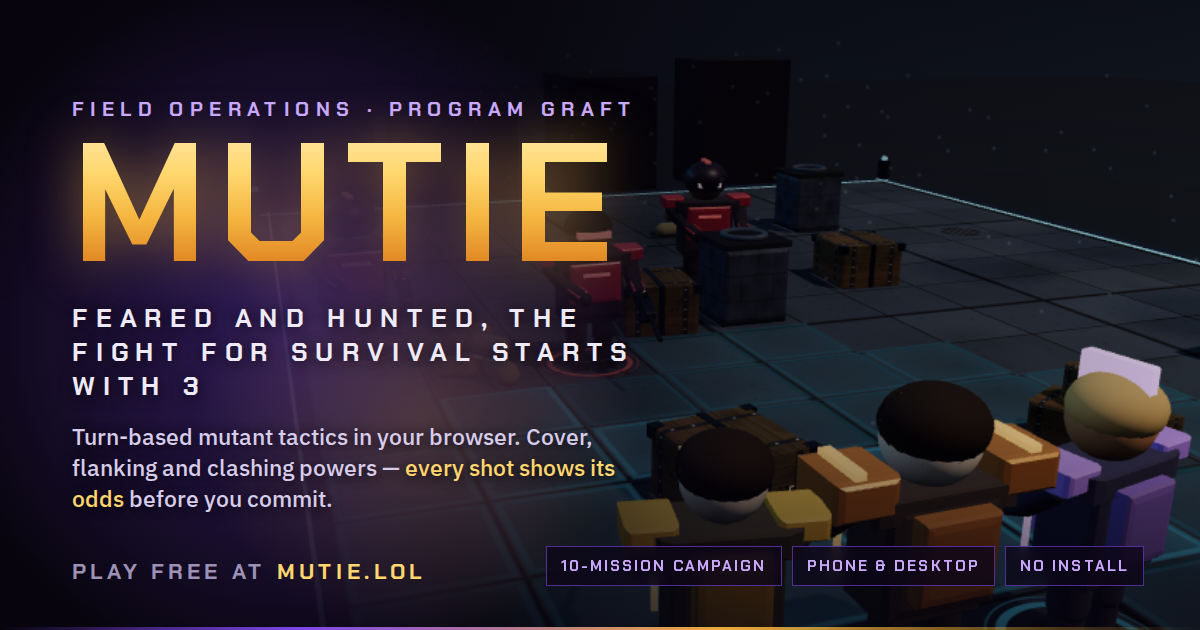
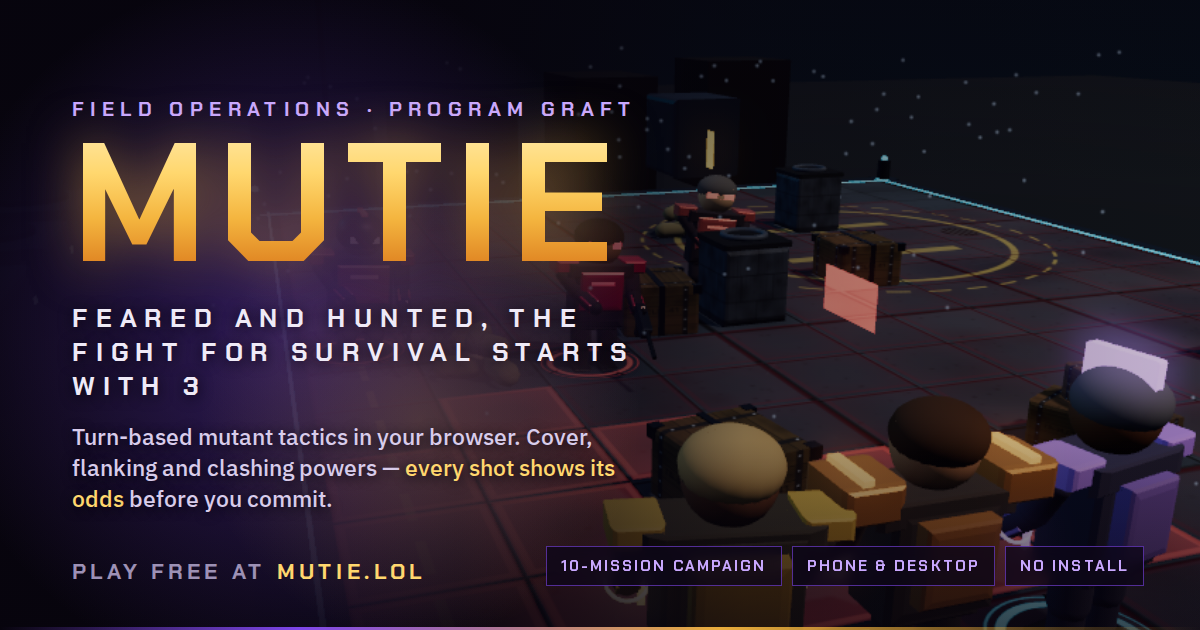
Signature basic attacks: no mutant fires a gun
Each family's basic attack is now a power with its own projectile,
sound and animation — Pulse Shot, Shockwave, Rift Shard, Suture Dart —
with a flavour name and colour per mutant. Figures trade the rifle for
emitter rings and palm cores; cast and slam poses replace the rifle
raise. Every "Fire" label, the POV button, hints and touch text use the
attack's name. Coalition units keep their guns. Share card regenerated.

Claude-Session: https://claude.ai/code/session_0139axJRpttUcGwMhriLBh9T

diff --git a/index.html b/index.html
@@ -748,7 +748,7 @@ button,.navbtn,.linkbtn{touch-action:manipulation}
       <div class="sheet-h"><h2>How to play</h2><button class="btn small" data-close="modal-help">Close</button></div>
       <div class="help">
         <p><b>Two actions per unit.</b> Moving costs one. A long move (dim tiles) costs both. Firing, Overwatch, and most powers end the unit's turn. Powers recharge on a cooldown — except <b>Pulse Blast</b>, which is three charges per mission: throw one at a lone trooper and that is a grenade you will not have later.</p>
-        <p><b>Selecting a mutant drops the camera behind them.</b> Targets line up in a strip sorted by hit chance — shootable ones first, the rest greyed with the reason. Swipe, use ‹ ›, or ← → to cycle; the big button fires at the current target (or uses a targeted power on them — Mend, Ward and Stim swap the strip to your allies). <b>Move</b>, Blast, Blink and the like pull back to the map so you can pick a tile, then the camera returns. <kbd>V</kbd> or the Map/POV button switches views any time; the map still works exactly as before.</p>
+        <p><b>Selecting a mutant drops the camera behind them.</b> Targets line up in a strip sorted by hit chance — shootable ones first, the rest greyed with the reason. Swipe, use ‹ ›, or ← → to cycle; the big button throws the mutant's own attack at the current target — a Pulse Shot, a Shockwave, a Rift Shard, a Suture Dart; nobody here carries a gun (or uses a targeted power on them — Mend, Ward and Stim swap the strip to your allies). <b>Move</b>, Blast, Blink and the like pull back to the map so you can pick a tile, then the camera returns. <kbd>V</kbd> or the Map/POV button switches views any time; the map still works exactly as before.</p>
         <p><b>On a touchscreen,</b> the first tap previews — the path, who it wakes, the hit chance — and a second tap on the same spot confirms. Tapping one of your own mutants selects them straight away.</p>
         <p><b>Read the number.</b> Hover a hostile to see your hit chance. Half cover −20, full cover −40. Get around their cover and you're <b>flanking</b>: cover ignored, +1 damage, a chance to crit.</p>
         <p><b>Cover has a side.</b> Shield icons show which direction a unit is protected from. Bright shields protect against the unit you've selected.</p>
@@ -762,7 +762,7 @@ button,.navbtn,.linkbtn{touch-action:manipulation}
         <p><b>Side ops</b> are generated strikes: a random sector, objective and Coalition element scaled to where you are in the campaign. They use your roster like any mission — XP, wounds and deaths all count — and a win pushes the Graft Index back by two. Every sector has a code you can replay.</p>
         <p><b>Twelve mutants, four families.</b> You start with three — Vex, Halden and Nix. Another named mutant joins after each campaign mission you clear, until all twelve are on the roster. Every Blaster, Bruiser, Phaser and Mender shares its family's role, but each mutant has a different power and passive. Two Blasters are not the same Blaster. Take three per mission.</p>
         <p><b>Voice</b> uses your browser's built-in speech voices; the cast sounds different on every machine. Every spoken line also appears in Comms. Toggle it in the top bar.</p>
-        <p class="keys"><kbd>1</kbd> Move · <kbd>2</kbd> Fire · <kbd>3</kbd> Power · <kbd>4</kbd> Overwatch · <kbd>5</kbd> Hunker · <kbd>Tab</kbd> next unit · <kbd>Enter</kbd> end turn · <kbd>Esc</kbd> / right-click cancel</p>
+        <p class="keys"><kbd>1</kbd> Move · <kbd>2</kbd> Attack · <kbd>3</kbd> Power · <kbd>4</kbd> Overwatch · <kbd>5</kbd> Hunker · <kbd>Tab</kbd> next unit · <kbd>Enter</kbd> end turn · <kbd>Esc</kbd> / right-click cancel</p>
       </div>
     </div>
   </div>
@@ -808,11 +808,11 @@ const MUTANTS = [
   { id:'blaster', arch:'blaster', name:'Vex',  color:'#F2B33D', glyph:'V', tagline:'Ranged artillery', hp:10, aim:70, move:4, dmg:[2,3], range:7, look:'goggles',
     passive:'Overcharge — a Pulse Blast that kills refunds its charge.', passiveKey:'overcharge',
     ability:{key:'blast', name:'Pulse Blast', cd:3, range:5, ends:true, desc:'3 dmg to every unit in a 3×3 area within 5 tiles. Always hits; ignores cover and armor; wrecks crates and drums. Three charges per mission. Ends turn.'} },
-  { id:'ember', arch:'blaster', name:'Ember', color:'#FF7A45', glyph:'E', tagline:'Kinetic sharpshooter', hp:9, aim:72, move:4, dmg:[2,4], range:7, look:'scarf',
+  { id:'ember', arch:'blaster', name:'Ember', color:'#FF7A45', glyph:'E', tagline:'Kinetic striker', hp:9, aim:72, move:4, dmg:[2,4], range:7, look:'scarf',
     passive:'Hotshot — flanking shots do +1 extra damage.', passiveKey:'hotshot',
-    ability:{key:'concuss', name:'Concussion Round', cd:3, range:6, ends:true, desc:'4 dmg to one hostile in view within 6. Ignores cover, knocks them back a tile and breaks their overwatch. Ends turn.'} },
+    ability:{key:'concuss', name:'Concussive Burst', cd:3, range:6, ends:true, desc:'4 dmg to one hostile in view within 6. Ignores cover, knocks them back a tile and breaks their overwatch. Ends turn.'} },
   { id:'rook', arch:'blaster', name:'Rook',  color:'#D9A441', glyph:'R', tagline:'Suppression specialist', hp:11, aim:66, move:4, dmg:[2,3], range:7, look:'vest',
-    passive:'Steady — reaction fire from Rook has no aim penalty.', passiveKey:'steady',
+    passive:'Steady — reaction shots from Rook have no aim penalty.', passiveKey:'steady',
     ability:{key:'suppress', name:'Suppressing Arc', cd:3, range:4, ends:false, desc:'Every hostile in view within 4 is suppressed until your next turn: −25 aim and no reaction fire. Costs 1 action.'} },
   { id:'bruiser', arch:'bruiser', name:'Halden', color:'#E08A3C', glyph:'H', tagline:'Frontline wall', hp:16, aim:60, move:4, dmg:[2,3], range:5, armor:1, look:'pauldrons',
     passive:'Dense — Armor 1: every hit on Halden does 1 less. Smash ignores armor.', passiveKey:'dense',
@@ -842,6 +842,16 @@ const MUTANTS = [
     passive:'Field medic — allies beside Tobias heal 1 at the start of each turn.', passiveKey:'fieldmedic',
     ability:{key:'stim', name:'Stim', cd:3, range:4, ends:false, desc:'An ally within 4 gets an action back (max 2) and their power cooldown drops by 1; clears drain. Costs 1 action.'} },
 ];
+/* Basic attacks are powers too: no mutant fires a gun. One signature per family (projectile kind, sound, animation), a flavour
+   name and colour per mutant. `def.attack` is merged in buildDef; the Coalition keeps rifles. */
+const ATTACKS={
+  blaster:{name:'Pulse Shot',  kind:'bolt',   sfx:'pulse',  anim:'cast1', color:'#FFD27A', desc:'a bolt of charged force from the palm'},
+  bruiser:{name:'Shockwave',   kind:'wave',   sfx:'slam',   anim:'slam',  color:'#FFA35C', desc:'a fist to the floor — the ground carries the hit'},
+  phaser: {name:'Rift Shard',  kind:'shard',  sfx:'shard',  anim:'cast1', color:'#C9A8FF', desc:'a sliver of folded space, thrown'},
+  mender: {name:'Suture Dart', kind:'needle', sfx:'needle', anim:'cast1', color:'#7BE0C8', desc:'a biotic needle meant for the wrong body'},
+};
+const ATTACK_NAMES={blaster:['Pulse Shot','#FFD27A'],ember:['Heat Lance','#FF8A5C'],rook:['Static Bolt','#E3E36B'],bruiser:['Shockwave','#FFA35C'],mara:['Shield Slam','#E0A070'],grit:['Quake Fist','#D97A4A'],phaser:['Rift Shard','#C9A8FF'],sable:['Void Spike','#A88CFF'],echo:['Echo Pulse','#8FE0FF'],mender:['Suture Dart','#7BE0C8'],iris:['Ward Sting','#9BEFE0'],tobias:['Adrenal Dart','#B4F0A0']};
+const attackFor=(kit)=>{ const m=MUT[kit]||MUT.blaster; const base=ATTACKS[m.arch]||ATTACKS.blaster; const nm=ATTACK_NAMES[kit]; return Object.assign({},base,nm?{name:nm[0],color:nm[1]}:{}); };
 const MUT=Object.fromEntries(MUTANTS.map(m=>[m.id,m]));
 /* The three the player starts with; the rest join over the campaign (see RECRUIT_ORDER). */
 const STARTING_IDS=['blaster','bruiser','phaser'];
@@ -1229,12 +1239,17 @@ const Audio = (()=>{
     blink:(x)=>{ const p=pan(x); tone(300,1800,0.18,'sine',0.14,p); tone(1800,300,0.18,'sine',0.1,p); noise(0.12,0.05,3000,p); },
     huskBlink:(x)=>{ const p=pan(x); tone(1200,2400,0.12,'sine',0.08,p); tone(2400,600,0.2,'triangle',0.08,p,0.05); noise(0.15,0.06,4000,p); },
     // ---- weapons ----
-    shoot:(x,kind='rifle')=>{ const p=pan(x);
+    shoot:(x,kind='rifle')=>{ const p=pan(x); if(kind==='pulse'||kind==='slam'||kind==='shard'||kind==='needle'){ Audio[kind](x); return; }
       if(kind==='marksman'){ noise(0.06,0.5,2500,p); tone(900,120,0.18,'square',0.18,p); tone(70,40,0.25,'sine',0.25,p); }
       else if(kind==='heavy'){ noise(0.16,0.45,600,p,0,4000); tone(180,45,0.22,'square',0.25,p); }
       else if(kind==='pistol'){ noise(0.05,0.3,1800,p); tone(600,150,0.08,'square',0.1,p); }
       else { noise(0.12,0.35,1200,p); tone(420,90,0.14,'square',0.12,p); } },
     reaction:(x)=>{ tone(1400,1400,0.05,'square',0.07,pan(x)); tone(1400,1400,0.05,'square',0.07,pan(x),0.07); },
+    // mutant basic attacks — no gunfire
+    pulse:(x)=>{ const p=pan(x); tone(320,1100,0.16,'sine',0.16,p,0,0.02); tone(1100,600,0.12,'triangle',0.08,p,0.08); noise(0.08,0.08,1800,p,0.02,6000); },
+    slam:(x)=>{ const p=pan(x); tone(110,32,0.32,'sine',0.42,p); noise(0.22,0.25,90,p,0,700); tone(60,45,0.5,'triangle',0.18,p,0.05); },
+    shard:(x)=>{ const p=pan(x); tone(2200,3600,0.07,'sine',0.09,p); tone(1800,2600,0.09,'triangle',0.07,p,0.03); tone(3400,900,0.14,'sine',0.06,p,0.06); noise(0.05,0.05,5000,p,0,12000); },
+    needle:(x)=>{ const p=pan(x); tone(2600,1500,0.06,'sine',0.08,p); noise(0.04,0.06,3000,p,0,9000); tone(900,700,0.05,'triangle',0.05,p,0.05); },
     overwatch:(x)=>{ const p=pan(x); noise(0.04,0.15,2000,p); tone(300,240,0.06,'square',0.08,p,0.05); noise(0.03,0.12,2500,p,0.11); },
     hit:(x)=>{ const p=pan(x); tone(160,40,0.18,'triangle',0.35,p); noise(0.08,0.2,300,p); },
     crit:(x)=>{ const p=pan(x); tone(220,30,0.28,'sawtooth',0.4,p); noise(0.14,0.35,200,p); tone(1200,300,0.1,'square',0.1,p,0.02); },
@@ -1380,7 +1395,7 @@ function checkPerkOffer(){ const offer=CAMP.perkOffer; if(!offer||!offer.length)
   $('modal-perk').hidden=false; return true; }
 const KIT_UPGRADES={
   blaster:[{id:'wide',name:'Wide Pulse',desc:'Pulse Blast covers a 5×5 area.',flags:{blastRadius:2}},{id:'focus',name:'Focused Pulse',desc:'Pulse Blast deals 4 damage.',flags:{blastDmg:4}}],
-  ember:[{id:'breaker',name:'Breaker',desc:'Concussion Round throws 2 tiles and stuns — the target loses its next turn.',flags:{concussKnock:2,concussStun:1}},{id:'follow',name:'Follow-through',desc:'If Concussion Round kills, Ember keeps one action.',flags:{concussMomentum:1}}],
+  ember:[{id:'breaker',name:'Breaker',desc:'Concussive Burst throws 2 tiles and stuns — the target loses its next turn.',flags:{concussKnock:2,concussStun:1}},{id:'follow',name:'Follow-through',desc:'If Concussive Burst kills, Ember keeps one action.',flags:{concussMomentum:1}}],
   rook:[{id:'widearc',name:'Wide Arc',desc:'Suppressing Arc reaches 6 tiles.',flags:{suppressRange:6}},{id:'pinning',name:'Pinning Fire',desc:'Suppressed hostiles cannot move this turn.',flags:{suppressRoot:1}}],
   bruiser:[{id:'quake',name:'Quake',desc:'Smash also hits every other adjacent hostile for 3.',flags:{smashAoE:3}},{id:'exec',name:'Executioner',desc:'Smash deals 7 damage.',flags:{smashDmg:7}}],
   mara:[{id:'bastion',name:'Bastion',desc:'While braced, Mara blocks line of sight like a wall.',flags:{braceLOS:1}},{id:'rebound',name:'Rebound',desc:'While braced, anyone who hits Mara takes 2 damage.',flags:{braceThorns:2}}],
@@ -1446,7 +1461,7 @@ const readyRoster=()=>CAMP.roster.filter(r=>r.alive&&r.wounded<=0);
 const squadNeed=()=>Math.min(3,CAMP.roster.filter(r=>r.alive).length);
 /* Fewer than three fit? Wounded mutants may fill the empty slots (ready ones first) — never a dead end, never a solo op. */
 const deployPool=()=>{ const al=CAMP.roster.filter(r=>r.alive); return readyRoster().length>=3?readyRoster():[...al.filter(r=>r.wounded<=0),...al.filter(r=>r.wounded>0)]; };
-function buildDef(entry){ const kit=MUT[entry.kit]||MUT.blaster; const d=Object.assign({},ARCH[kit.arch],kit,{id:kit.id}); d.ability=Object.assign({},kit.ability);
+function buildDef(entry){ const kit=MUT[entry.kit]||MUT.blaster; const d=Object.assign({},ARCH[kit.arch],kit,{id:kit.id}); d.ability=Object.assign({},kit.ability); d.attack=attackFor(kit.id);
   const L=entry.level; if(L>=2){ d.hp+=1; d.aim+=5; } if(L>=4){ d.hp+=2; d.aim+=5; }
   d.flags={}; if(entry.upgrade){ const up=findUpgrade(entry.kit,entry.upgrade); if(up){ d.upgradeName=up.name; d.upgradeDesc=up.desc; Object.assign(d.flags,up.flags||{}); for(const k in (up.mod||{})){ if(k==='cd') d.ability.cd=Math.max(1,d.ability.cd+up.mod.cd); else if(k==='range') d.ability.range+=up.mod.range; else if(k==='dmg') d.dmg=[d.dmg[0]+1,d.dmg[1]+1]; else d[k]=(d[k]||0)+up.mod[k]; } } }
   d.level=L; d.cid=entry.cid; d.custom=entry.custom; return d; }
@@ -1892,8 +1907,8 @@ function renderSide(){
     if(!u.def.noAttack){ const dn=downedNear(u); if(dn.length&&!u.carrying){ mk('stabilize',`Stabilize ${dn[0].name}`,'Stop the bleeding. They survive the mission, out of the fight. 1 action.',{disabled:!can||dn[0].stabilized,pressed:false}); mk('carry',`Carry ${dn[0].name}`,'Pick them up. −1 move, no overwatch while carrying. 1 action.',{disabled:!can,pressed:false}); }
       if(u.carrying) mk('setdown',`Set down ${u.carrying.name}`,'Put them on an adjacent tile. 1 action.',{disabled:!can,pressed:G.mode==='setdown'}); }
     if(!u.def.noAttack){
-      mk('shoot','Fire',`${u.dmg[0]}–${u.dmg[1]} dmg, range ${u.range}. Ends turn.`,{disabled:!can,pressed:G.mode==='shoot',cost:2,cls:'fire'});
-      mk('overwatch','Overwatch',`Hold fire. Shoot the first hostile that moves in view (aim −15). Ends turn.`,{disabled:!can||u.ow||!!u.carrying,pressed:u.ow,cost:2});
+      const atkName=(u.def.attack&&u.def.attack.name)||'Fire'; mk('shoot',atkName,`${u.dmg[0]}–${u.dmg[1]} dmg, range ${u.range}${u.def.attack?' — '+u.def.attack.desc:''}. Ends turn.`,{disabled:!can,pressed:G.mode==='shoot',cost:2,cls:'fire'});
+      mk('overwatch','Overwatch',`Hold your shot. Hit the first hostile that moves in view (aim −15). Ends turn.`,{disabled:!can||u.ow||!!u.carrying,pressed:u.ow,cost:2});
       mk('hunker','Hunker',`Get small. −20 to be hit and no crits against you until your next turn. Ends turn.`,{disabled:!can||u.hunker,pressed:u.hunker,cost:2});
       const ab=u.def.ability; const isJam=jammed(u);
       for(const pid of [...(G.perks||[])]){ const P=PERKS[pid]; if(!P||P.kind!=='use') continue; const used=G.perkUsed.has(pid); mk('perk:'+pid,P.name,P.short,{disabled:!can||used||(P.cost&&u.ap<P.cost),pressed:G.mode==='perk:'+pid,cost:P.cost||0,cls:'perk'+(used?' used':''),tag:used?'USED':(P.cost?'':'FREE')}); }
@@ -1905,8 +1920,8 @@ function renderSide(){
   $('btn-end').disabled=G.phase!=='player'||G.busy; $('btn-end').classList.toggle('pulse',G.phase==='player'&&!G.busy&&alive('player').some(u=>u.side==='player')&&alive('player').every(u=>u.ap<=0||u.ow));
 }
 function armHint(u,p,target,hostile){ const again='<span class="tap">Tap again to confirm.</span>';
-  if(G.mode==='move'||G.mode==='shoot'){ if(hostile){ if(!inRange(u,target)) return `<b>No shot</b> — ${target.name} is out of range or line of sight.`; const h=hitChance(u,target); return `<b>Fire</b> at ${target.name} — <b>${h.chance}%</b>${h.flanked?' (flanked)':h.cover===2?' vs full cover':h.cover===1?' vs half cover':''}. ${again}`; }
-    if(target) return tooltip(target); if(G.mode==='shoot') return `<b>Fire</b> — tap a hostile.`;
+  if(G.mode==='move'||G.mode==='shoot'){ if(hostile){ if(!inRange(u,target)) return `<b>No shot</b> — ${target.name} is out of range or line of sight.`; const h=hitChance(u,target); return `<b>${(u.def.attack&&u.def.attack.name)||'Fire'}</b> at ${target.name} — <b>${h.chance}%</b>${h.flanked?' (flanked)':h.cover===2?' vs full cover':h.cover===1?' vs half cover':''}. ${again}`; }
+    if(target) return tooltip(target); if(G.mode==='shoot') return `<b>${(u.def.attack&&u.def.attack.name)||'Fire'}</b> — tap a hostile.`;
     const r=reachable(u,u.move*u.ap); const n=r.get(key(p.x,p.y)); if(!n){ G.armed=null; return `<b>Can't reach</b> that tile.`; }
     return `${moveHint(u,p,n,r)} ${again}`; }
   const ab=u.def.ability; const name=G.mode==='setdown'?'Set down':G.mode.startsWith('perk:')?(PERKS[G.mode.slice(5)]||{}).name||'Perk':(ab&&ab.key===G.mode?ab.name:G.mode);
@@ -1961,7 +1976,7 @@ function renderPov(){
   if(!t){ go.textContent='No target'; go.disabled=true; }
   else if(pv.kind==='ally'){ go.innerHTML=`${ab.name} → ${t.name}`; go.disabled=!can||!it.ok||u.cd>0||jammed(u); }
   else if(TARGETED[G.mode]==='enemy'){ go.innerHTML=`${ab.name} → ${t.side==='obj'?t.name:t.def.name}`; go.disabled=!can||!it.ok||u.cd>0||jammed(u); }
-  else { go.innerHTML=it.ok?`Fire at ${t.side==='obj'?t.name:t.def.name} · <b>${it.h.chance}%</b>`:`No shot — ${t.side==='obj'?t.name:t.def.name}`; go.disabled=!can||!it.ok; }
+  else { const an=(u.def.attack&&u.def.attack.name)||'Fire'; go.innerHTML=it.ok?`${an} → ${t.side==='obj'?t.name:t.def.name} · <b>${it.h.chance}%</b>`:`No shot — ${t.side==='obj'?t.name:t.def.name}`; go.disabled=!can||!it.ok; }
   $('pov-prev').disabled=$('pov-next').disabled=pv.list.length<2||G.busy;
 }
 $('pov-prev').onclick=()=>povCycle(-1); $('pov-next').onclick=()=>povCycle(1); $('pov-map').onclick=toggleView; $('btn-pov').onclick=toggleView; $('pov-go').onclick=povGo;
@@ -1996,12 +2011,12 @@ function setHint(t){
     if(TARGETED[m]==='enemy'){ const sp=(m==='phasestrike'&&it.ok)?landingSpot(u,t):null; h.innerHTML=`<b>${u.def.ability.name}</b> → <b>${nm}</b>${it.ok?'':' — out of reach'}.${sp?' On landing: '+exposureHtml(u,sp):''}${nav}`; return; }
     if(it.ok){ const si=t.side==='obj'?null:shotInfo(u,t); const kt=si?killTag(si):''; h.innerHTML=`<b>${nm}</b> — <b>${it.h.chance}%</b>${it.h.flanked?' flanked':it.h.cover===2?' vs full cover':it.h.cover===1?' vs half cover':''}, ${si?(si.lo===si.hi?si.lo:si.lo+'–'+si.hi):u.dmg[0]+'–'+u.dmg[1]} dmg${si&&si.armor?' after '+si.armor+' armor':''}${kt?` — <b>${kt.toLowerCase()}</b>`:''}.${it.h.parts&&it.h.parts.length>1?` <span class="why">${fmtParts(it.h)}</span>`:''}${t.side==='enemy'&&!t.alert?' Firing wakes their pod.':''}${nav}`; } else h.innerHTML=`<b>${nm}</b> — no shot from here.${nav} <b>Move</b> to reposition.`; return; }
   if(m==='move'){ const p=G.hover; if(p&&!unitAt(p.x,p.y)){ const r=reachable(u,u.move*u.ap); const n=r.get(key(p.x,p.y)); if(n){ h.innerHTML=moveHint(u,p,n,r); return; } } h.innerHTML=G.touch?`<b>Move</b> — tap a highlighted tile to preview it (who wakes, who could hit you there), tap again to go.`:`<b>Move</b> — click a highlighted tile. Bright = 1 action, dim = dash (both actions). Hover a tile to see who could hit you there.`; }
-  else if(m==='shoot') h.innerHTML=`<b>Fire</b> — click a hostile or a relay. Hover to see hit chance.`;
+  else if(m==='shoot') h.innerHTML=`<b>${(u.def.attack&&u.def.attack.name)||'Fire'}</b> — click a hostile or a relay. Hover to see hit chance.`;
   else if(m==='blast') h.innerHTML=`<b>Pulse Blast</b> — click a target tile within 5. Hits everything in the 3×3, allies included. Wrecks crates.`;
   else if(m==='smash') h.innerHTML=`<b>Seismic Smash</b> — click an adjacent hostile.`;
   else if(m==='blink'){ const p=G.hover; if(blinkOk(u,p)) h.innerHTML=`<b>Blink</b> here — 1 action, you can still shoot. ${exposureHtml(u,p)}`; else h.innerHTML=`<b>Blink</b> — click any open tile within 6. No line of sight needed. Hover a tile to see who could hit you there.`; }
   else if(m==='mend') h.innerHTML=`<b>Mend</b> — click a wounded or marked ally within 5.`;
-  else if(m==='concuss') h.innerHTML=`<b>Concussion Round</b> — click a hostile in view within 6. Knocks them back and breaks overwatch.`;
+  else if(m==='concuss') h.innerHTML=`<b>Concussive Burst</b> — click a hostile in view within 6. Knocks them back and breaks overwatch.`;
   else if(m==='suppress') h.innerHTML=`<b>Suppressing Arc</b> — fires on every hostile in view within 4. Click anywhere on the map to confirm.`;
   else if(m==='brace') h.innerHTML=`<b>Brace</b> — click anywhere to brace. Allies beside Mara get full cover from her.`;
   else if(m==='rally') h.innerHTML=`<b>Rally</b> — click anywhere. Hostiles in view within 5 will come for Grit; Grit gains a shield.`;
@@ -2025,7 +2040,7 @@ function log(msg,cls){ const l=$('log'); const d=document.createElement('div'); 
 /* ---------- Effects ---------- */
 const now=()=>performance.now();
 function fxText(x,y,text,color,big){ G.fx.push({k:'text',x,y,text,color,big,t0:now(),d:900}); }
-function fxTracer(a,b,color){ G.fx.push({k:'tracer',a:{x:a.x,y:a.y},b:{x:b.x,y:b.y},color,t0:now(),d:220}); }
+function fxTracer(a,b,color,kind='bullet'){ G.fx.push({k:'tracer',a:{x:a.x,y:a.y},b:{x:b.x,y:b.y},color,kind,t0:now(),d:kind==='wave'?300:kind==='needle'?170:220}); }
 function fxFlash(x,y,color,r=0.7){ G.fx.push({k:'flash',x,y,color,r,t0:now(),d:260}); }
 function fxRing(x,y,color,r){ G.fx.push({k:'ring',x,y,color,r,t0:now(),d:450}); }
 function fxDebris(x,y){ for(let i=0;i<8;i++) G.fx.push({k:'debris',x,y,vx:(Math.random()-.5)*3,vy:-Math.random()*3-1,t0:now(),d:600}); }
@@ -2089,12 +2104,12 @@ function dropCarried(c){ const d=c.carrying; if(!d) return; c.carrying=null; c.m
 const anim=(u,k,extra)=>{ if(u) u.anim=Object.assign({k,t0:now()},extra||{}); };
 async function shoot(a,d,opt={}){
   const h=hitChance(a,d,opt); const roll=rnd(1,100); const hit=roll<=h.chance;
-  anim(a,a.melee?'lunge':'fire',{tx:d.x,ty:d.y}); if(a.blinkAim&&!opt.reaction) a.blinkAim=0;
+  const atk=(a.side==='player'&&a.def.attack)||null; anim(a,a.melee?'lunge':(atk?atk.anim:'fire'),{tx:d.x,ty:d.y}); if(a.blinkAim&&!opt.reaction) a.blinkAim=0;
   if(a.side==='enemy'&&G.actcam&&!opt.reaction){ const dd=dist(a,d); G.actcam={x:(a.x+d.x)/2,y:(a.y+d.y)/2,zoom:dd>6?1.12:dd>3?1.24:1.36,pull:0.7}; }
   if(a.side==='player'){ G.stats.shots++; if(hit) G.stats.hits++; }
   const kind=a.def.id==='marksman'?'marksman':(a.def.id==='juggernaut'||a.def.boss||a.def.id==='bulwark')?'heavy':(a.def.id==='spotter'||a.def.id==='jammer'||a.def.id==='siphon')?'pistol':'rifle';
   if(opt.reaction) Audio.reaction(a.x);
-  fxTracer(a,d,a.side==='player'?'#9FE8FF':'#FFB3AE'); if(a.melee) Audio.lunge(a.x); else Audio.shoot(a.x,kind); await wait(200);
+  fxTracer(a,d,atk?atk.color:'#FFB3AE',atk?atk.kind:'bullet'); if(atk&&atk.kind==='wave'){ fxRing(a.x,a.y,atk.color,0.7); shake(3); } if(a.melee) Audio.lunge(a.x); else Audio.shoot(a.x,atk?atk.sfx:kind); await wait(atk&&atk.kind==='wave'?260:200);
   const covTxt=h.flanked?' (flanked)':h.cover===2?' vs full cover':h.cover===1?' vs half cover':''; const mk=h.marked?' [marked]':'';
   if(hit){ let dmg=rnd(a.dmg[0],a.dmg[1]); let crit=false; if(h.flanked){ dmg+=1; if(a.def.passiveKey==='hotshot') dmg+=1; const cc=d.hunker?0:(a.side==='player'?0.25:((G.adapt||[]).includes('frenzy')?0.24:0.12)); if(Math.random()<cc){ crit=true; dmg+=a.side==='player'?2:1; } }
     if(a.side==='player'&&G.boost) dmg+=1; if(opt.ambush){ dmg+=1; fxText(d.x,d.y-1.1,'AMBUSH','#F2B33D'); }
@@ -2505,7 +2520,10 @@ const R3 = (()=>{
       }
       const stripe=new T3.Mesh(geo.rbS,trimM); stripe.scale.set(0.02,0.3,0.015); stripe.position.set(0.19*bulk,0.5,0.125*bulk); body.add(stripe); }
     // weapons
-    if(!d.noAttack&&!d.melee){ const kind=d.id==='marksman'?'marksman':(d.id==='juggernaut'||d.boss)?'heavy':(d.id==='spotter'||d.id==='jammer'||d.id==='siphon'||d.id==='bulwark')?'pistol':'rifle'; const len=kind==='marksman'?0.72:kind==='pistol'?0.24:kind==='heavy'?0.52:0.44; const gun=makeGun(kind,len,isE?'#ff8a70':u.color); gun.position.set(0,-0.15,0.02); gun.quaternion.setFromRotationMatrix(new T3.Matrix4().makeBasis(new T3.Vector3(-1,0,0),new T3.Vector3(0,0,1),new T3.Vector3(0,1,0))); AR.elbow.add(gun); g.userData.gun=gun; g.userData.gunLen=len; g.userData.kind=kind;
+    if(!d.noAttack&&!d.melee&&!isE&&!isCap){ // mutant: no gun — emitter hands (glowing palm cores, forearm rings in the attack colour)
+      const ac=(d.attack&&d.attack.color)||u.color; for(const E of [AL.elbow,AR.elbow]){ const ring=new T3.Mesh(geo.torus,glowM(ac,1.2)); ring.scale.setScalar(0.16); ring.rotation.x=Math.PI/2; ring.position.y=-0.1; E.add(ring); const core=new T3.Mesh(geo.sph,glowM(ac,1.8)); core.scale.setScalar(0.028); core.position.set(0,-0.175,0.02); E.add(core); }
+      const mz=new T3.Sprite(new T3.SpriteMaterial({map:TEX.flash,color:ac,transparent:true,blending:T3.AdditiveBlending,depthWrite:false,toneMapped:false})); mz.scale.setScalar(0.3); mz.position.set(0,-0.18,0.03); mz.visible=false; AR.elbow.add(mz); g.userData.muzzle=mz; g.userData.kind=(d.attack&&d.attack.kind)||'bolt'; }
+    else if(!d.noAttack&&!d.melee){ const kind=d.id==='marksman'?'marksman':(d.id==='juggernaut'||d.boss)?'heavy':(d.id==='spotter'||d.id==='jammer'||d.id==='siphon'||d.id==='bulwark')?'pistol':'rifle'; const len=kind==='marksman'?0.72:kind==='pistol'?0.24:kind==='heavy'?0.52:0.44; const gun=makeGun(kind,len,isE?'#ff8a70':u.color); gun.position.set(0,-0.15,0.02); gun.quaternion.setFromRotationMatrix(new T3.Matrix4().makeBasis(new T3.Vector3(-1,0,0),new T3.Vector3(0,0,1),new T3.Vector3(0,1,0))); AR.elbow.add(gun); g.userData.gun=gun; g.userData.gunLen=len; g.userData.kind=kind;
       const mz=new T3.Sprite(new T3.SpriteMaterial({map:TEX.flash,color:'#FFE9A8',transparent:true,blending:T3.AdditiveBlending,depthWrite:false,toneMapped:false})); mz.scale.setScalar(0.22); mz.position.set(0,0.012,gun.userData.muzzleZ); mz.visible=false; gun.add(mz); g.userData.muzzle=mz; }
     else if(d.melee&&d.id==='sprinter'){ for(const E of [AL.elbow,AR.elbow]){ const blade=new T3.Mesh(geo.rbS,metalM('#b8c2cc',{roughness:0.25})); blade.scale.set(0.015,0.34,0.05); blade.position.set(0,-0.22,0.03); E.add(blade); const edge=new T3.Mesh(geo.rbS,glowM('#ff8a70',1.4)); edge.scale.set(0.006,0.3,0.02); edge.position.set(0,-0.24,0.06); E.add(edge); } }
     switch(d.id){
@@ -2519,7 +2537,7 @@ const R3 = (()=>{
       case 'decoy': { body.traverse(o=>{ if(o.isMesh){ o.material=new T3.MeshPhysicalMaterial({color:'#7FD4FF',emissive:'#2a8fb0',emissiveIntensity:0.8,transparent:true,opacity:0.45,roughness:0.15,metalness:0}); } }); break; }
     }
     body.scale.multiplyScalar(scale*1.5); const mats=[]; body.traverse(o=>{ if(o.isMesh){ const sz=o.scale.x*o.scale.y*o.scale.z; o.castShadow=(o.geometry!==geo.rbS||sz>0.0009)&&o.geometry!==geo.sph||o===head; if(o.geometry===geo.thigh||o.geometry===geo.shin||o.geometry===geo.uarm||o.geometry===geo.farm) o.castShadow=true; if(!o.material.isMeshBasicMaterial){ o.material=o.material.clone(); o.material.userData.e0=o.material.emissive.clone(); o.material.userData.i0=o.material.emissiveIntensity; mats.push(o.material); } } }); g.userData.mats=mats; g.userData.baseScaleY=body.scale.y;
-    g.userData.rest=(!d.noAttack&&!d.melee)?{rx:-0.85,lx:-0.7,lz:0.55}:{rx:-0.15,lx:-0.15,lz:0.08};
+    g.userData.rest=(!d.noAttack&&!d.melee&&isE)?{rx:-0.85,lx:-0.7,lz:0.55}:(!d.noAttack&&!d.melee)?{rx:-0.5,lx:-0.35,lz:0.25}:{rx:-0.15,lx:-0.15,lz:0.08};
     g.position.copy(W(u.x,u.y,0)); g.userData.tx=u.x; g.userData.ty=u.y; unitGroup.add(g); return g;
   }
   const restoreE=g=>{ for(const m of g.userData.mats){ m.emissive.copy(m.userData.e0); m.emissiveIntensity=m.userData.i0; } };
@@ -2558,7 +2576,10 @@ const R3 = (()=>{
   // ---- fx ----
   const sprite=(tex,color,opacity=1,additive=true)=>new T3.Sprite(new T3.SpriteMaterial({map:tex,color,transparent:true,opacity,depthWrite:false,blending:additive?T3.AdditiveBlending:T3.NormalBlending}));
   function ensureFx(f){ if(f.m) return; const t=f.k;
-    if(t==='tracer'){ const a=W(f.a.x,f.a.y,0.55), b=W(f.b.x,f.b.y,0.55); const gline=new T3.BufferGeometry().setFromPoints([a,b]); const line=new T3.Line(gline,new T3.LineBasicMaterial({color:f.color,transparent:true,opacity:0.5,toneMapped:false})); const bolt=sprite(TEX.dot,f.color); bolt.scale.setScalar(0.3); const trail=new T3.Mesh(new T3.PlaneGeometry(1,0.09),basic({map:TEX.trail,color:f.color,transparent:true,depthWrite:false,blending:T3.AdditiveBlending,side:T3.DoubleSide})); const dir=b.clone().sub(a); const len=Math.min(1.1,dir.length()*0.5); trail.scale.x=len; trail.userData.len=len; trail.rotation.y=Math.atan2(dir.x,dir.z)+Math.PI/2; trail.rotation.x=0; f.m=new T3.Group(); f.m.add(line,bolt,trail); f.bolt=bolt; f.trail=trail; f.pa=a; f.pb=b; f.dir=dir.normalize(); fxGroup.add(f.m); }
+    if(t==='tracer'){ const kd=f.kind||'bullet'; const h=kd==='wave'?0.08:0.55; const a=W(f.a.x,f.a.y,h), b=W(f.b.x,f.b.y,h); const gline=new T3.BufferGeometry().setFromPoints([a,b]); const line=new T3.Line(gline,new T3.LineBasicMaterial({color:f.color,transparent:true,opacity:kd==='bullet'?0.5:kd==='needle'?0.7:0.15,toneMapped:false}));
+      const bolt=sprite(kd==='wave'?TEX.ring:kd==='shard'?TEX.flash:TEX.dot,f.color); bolt.scale.setScalar(kd==='bolt'?0.5:kd==='wave'?0.9:kd==='shard'?0.42:kd==='needle'?0.16:0.3);
+      const trail=new T3.Mesh(new T3.PlaneGeometry(1,kd==='needle'?0.04:kd==='bolt'?0.14:0.09),basic({map:TEX.trail,color:f.color,transparent:true,depthWrite:false,blending:T3.AdditiveBlending,side:T3.DoubleSide})); const dir=b.clone().sub(a); const len=Math.min(kd==='needle'?1.6:1.1,dir.length()*0.5); trail.scale.x=len; trail.userData.len=len; trail.rotation.y=Math.atan2(dir.x,dir.z)+Math.PI/2; trail.rotation.x=0; if(kd==='wave'){ trail.visible=false; }
+      f.m=new T3.Group(); f.m.add(line,bolt,trail); f.bolt=bolt; f.trail=trail; f.pa=a; f.pb=b; f.dir=dir.normalize(); f.kd=kd; fxGroup.add(f.m); }
     else if(t==='flash'){ f.m=sprite(TEX.flash,f.color); f.m.position.copy(W(f.x,f.y,0.5)); fxGroup.add(f.m); }
     else if(t==='ring'){ f.m=new T3.Mesh(geo.ringFx,basic({color:f.color,transparent:true,opacity:0.9,side:T3.DoubleSide,depthWrite:false,blending:T3.AdditiveBlending})); f.m.rotation.x=-Math.PI/2; f.m.position.copy(W(f.x,f.y,0.05)); fxGroup.add(f.m); }
     else if(t==='debris'){ f.m=new T3.Mesh(geo.rbS,PM('#7a6a4a')); f.m.scale.setScalar(0.08); f.m.position.copy(W(f.x,f.y,0.4)); f.m.castShadow=true; fxGroup.add(f.m); }
@@ -2567,7 +2588,12 @@ const R3 = (()=>{
     else if(t==='puff'){ f.m=new T3.Mesh(geo.unit,basic({map:TEX.smoke,color:f.color,transparent:true,opacity:0.45,depthWrite:false})); f.m.rotation.x=-Math.PI/2; f.m.rotation.z=Math.random()*6.28; f.m.position.copy(W(f.x,f.y,0.03)); f.m.scale.setScalar(0.2); fxGroup.add(f.m); }
     else if(t==='smoke'){ f.m=sprite(TEX.smoke,'#3a3f48',0.55,false); f.m.scale.setScalar(f.size*1.8); f.m.position.copy(W(f.x,f.y,0.4)); f.m.material.rotation=Math.random()*6.28; fxGroup.add(f.m); } }
   function updFx(f,k){ if(f.m===true) return; const t=f.k; if(t!=='smoke') k=Math.max(0,k);
-    if(t==='tracer'){ const p=Math.min(1,k*1.6); f.bolt.position.lerpVectors(f.pa,f.pb,p); f.trail.position.copy(f.bolt.position).addScaledVector(f.dir,-f.trail.userData.len/2); f.m.children[0].material.opacity=0.5*(1-k); f.bolt.material.opacity=1-k*k; f.trail.material.opacity=1-k; }
+    if(t==='tracer'){ const kd=f.kd||'bullet'; const p=Math.min(1,k*(kd==='needle'?2.4:kd==='wave'?1.3:1.6)); f.bolt.position.lerpVectors(f.pa,f.pb,p);
+      if(kd==='shard'){ f.bolt.position.x+=(Math.random()-0.5)*0.12; f.bolt.position.y+=(Math.random()-0.5)*0.12; f.bolt.material.rotation=k*9; f.bolt.material.opacity=(Math.random()<0.25?0.35:1)*(1-k*k); }
+      else if(kd==='wave'){ f.bolt.material.rotation=k*3; f.bolt.scale.setScalar(0.6+p*0.7); f.bolt.material.opacity=(1-k)*0.9; }
+      else if(kd==='bolt'){ f.bolt.scale.setScalar(0.42+0.12*Math.sin(k*40)); f.bolt.material.opacity=1-k*k; }
+      else f.bolt.material.opacity=1-k*k;
+      f.trail.position.copy(f.bolt.position).addScaledVector(f.dir,-f.trail.userData.len/2); f.m.children[0].material.opacity=(kd==='bullet'?0.5:kd==='needle'?0.7:0.15)*(1-k); f.trail.material.opacity=1-k; }
     else if(t==='flash'){ const s=f.r*(0.35+k*0.55); f.m.scale.setScalar(s); f.m.material.opacity=Math.pow(1-k,1.8)*0.85; f.m.material.rotation=k*0.8; }
     else if(t==='ring'){ const s=0.3+f.r*k*1.2; f.m.scale.setScalar(s); f.m.material.opacity=(1-k)*0.6; }
     else if(t==='debris'){ const p=W(f.x,f.y,0); f.m.position.set(p.x+f.vx*k*0.9,0.4+(-f.vy)*k*0.8-k*k*1.6,p.z+(f.vx*0.4)*k); f.m.rotation.x+=0.2; f.m.rotation.z+=0.15; if(f.m.position.y<0.04) f.m.position.y=0.04; }
@@ -2578,7 +2604,7 @@ const R3 = (()=>{
   // ---- pose / animation ----
   const ease=x=>x<0.5?2*x*x:1-Math.pow(-2*x+2,2)/2;
   function pose(u,g,t,moving){
-    const P=g.userData.parts; if(!P) return; const body=g.userData.body; const a=u.anim; const k=a?(t-a.t0-(a.delay||0))/({fire:520,lunge:520,hit:380,dodge:320,cast:700,blinkIn:320,healed:600,standUp:500,drop:520,select:260}[a.k]||400):2;
+    const P=g.userData.parts; if(!P) return; const body=g.userData.body; const a=u.anim; const k=a?(t-a.t0-(a.delay||0))/({fire:520,cast1:560,slam:640,lunge:520,hit:380,dodge:320,cast:700,blinkIn:320,healed:600,standUp:500,drop:520,select:260}[a.k]||400):2;
     if(a&&k<0){ if(a.k==='drop'){ body.position.y=6; } return; }
     const rest=g.userData.rest||{rx:0,lx:0,lz:0};
     if(u.downed){ body.rotation.x=1.45; body.rotation.z=0.15; body.position.set(0,-0.02,0); P.legL.rotation.x=0.2; P.legR.rotation.x=-0.1; P.kneeL.rotation.x=0.3; P.kneeR.rotation.x=0.1; P.armL.rotation.x=0.4; P.armR.rotation.x=-0.6; P.armL.rotation.z=0; P.armR.rotation.z=0; const rm=g.userData.ring.material; rm.color.set(u.stabilized?'#5CD68A':'#FF6B62'); rm.opacity=u.stabilized?0.7:0.4+0.6*Math.abs(Math.sin(t/220)); for(const m of g.userData.mats){ m.emissive.copy(m.userData.e0); m.emissiveIntensity=m.userData.i0*0.25; } if(g.userData.muzzle) g.userData.muzzle.visible=false; return; }
@@ -2592,12 +2618,16 @@ const R3 = (()=>{
     if(moving){ const w=Math.sin(t/70); P.legL.rotation.x=w*0.75; P.legR.rotation.x=-w*0.75; P.kneeL.rotation.x=Math.max(0,-w)*0.9; P.kneeR.rotation.x=Math.max(0,w)*0.9; P.armL.rotation.x=rest.lx-w*0.25; P.armR.rotation.x=rest.rx+w*0.25; bobY=Math.abs(w)*0.05; body.rotation.x=0.08; }
     else if(u.ow){ P.armR.rotation.x=-1.35; P.armL.rotation.x=-1.1; P.armL.rotation.z=0.5; bobY=-0.04; P.head.rotation.y=0.35*Math.sin(t/600); }
     // cover crouch: standing beside cover, an idle unit hunkers behind it (deeper for full cover); eased in and out so stops don't snap
-    { const wantCr=(!moving&&!u.ow&&u.side!=='captive'&&!u.def.noAttack&&!(a&&k<1&&(a.k==='fire'||a.k==='lunge'||a.k==='cast'||a.k==='drop')))?(u.hunker?1.2:(()=>{ const cov=adjacentCover(u); if(!cov.length) return 0; const f=nearestFoe(u); const rel=f?cov.filter(c=>protects(u,c,f)):cov; const use=rel.length?rel:cov; return use.some(c=>c.val===2)?1:0.62; })()):0; const wantCrN=wantCr;
+    { const wantCr=(!moving&&!u.ow&&u.side!=='captive'&&!u.def.noAttack&&!(a&&k<1&&(a.k==='fire'||a.k==='cast1'||a.k==='slam'||a.k==='lunge'||a.k==='cast'||a.k==='drop')))?(u.hunker?1.2:(()=>{ const cov=adjacentCover(u); if(!cov.length) return 0; const f=nearestFoe(u); const rel=f?cov.filter(c=>protects(u,c,f)):cov; const use=rel.length?rel:cov; return use.some(c=>c.val===2)?1:0.62; })()):0; const wantCrN=wantCr;
       const cr=g.userData.cr=(g.userData.cr||0)+(wantCrN-(g.userData.cr||0))*(frozen?0:0.12); if(cr>0.01){ const e=cr; P.legL.rotation.x-=0.62*e; P.legR.rotation.x-=0.78*e; P.kneeL.rotation.x+=1.0*e; P.kneeR.rotation.x+=1.15*e; bobY-=0.15*e; body.rotation.x+=0.16*e; P.armR.rotation.x+=0.18*e; P.armL.rotation.x+=0.1*e; P.head.rotation.x=-0.12*e; } }
     if(a&&k<1){
       const dirTo=(tx,ty)=>{ const fx=tx-u.x, fy=ty-u.y; if(fx||fy) body.rotation.y=Math.atan2(fx,fy); };
       switch(a.k){
-        case 'fire': { dirTo(a.tx,a.ty); P.armR.rotation.x=-1.5; P.armL.rotation.x=-1.2; P.armL.rotation.z=0.5; if(k<0.18){ body.position.z=-0.06*(1-k/0.18); P.armR.rotation.x=-1.5+0.25*(1-k/0.18); if(g.userData.muzzle){ g.userData.muzzle.visible=k<0.1; g.userData.muzzle.material.rotation=t/40; if(k<0.1){ const wp=new T3.Vector3(); g.userData.muzzle.getWorldPosition(wp); muzzleLight.position.copy(wp); muzzleLight.intensity=2.2*(1-k/0.1); } } } break; }
+        case 'fire': { dirTo(a.tx,a.ty); P.armR.rotation.x=-1.5; P.armL.rotation.x=-1.2; P.armL.rotation.z=0.5; if(k<0.18){ body.position.z=-0.06*(1-k/0.18); P.armR.rotation.x=-1.5+0.25*(1-k/0.18); if(g.userData.muzzle){ g.userData.muzzle.visible=k<0.1; g.userData.muzzle.material.rotation=t/40; if(k<0.1){ const wp=new T3.Vector3(); g.userData.muzzle.getWorldPosition(wp); muzzleLight.position.copy(wp); muzzleLight.color.set('#ffd27a'); muzzleLight.intensity=2.2*(1-k/0.1); } } } break; }
+        case 'cast1': { dirTo(a.tx,a.ty); const wind=k<0.22?k/0.22:1; P.armR.rotation.x=-0.5-1.15*wind; P.armR.rotation.z=-0.05; P.armL.rotation.x=-0.35-0.3*wind; P.armL.rotation.z=0.35; body.rotation.x=0.12*wind; body.position.z=k<0.3?0.08*Math.sin(Math.PI*k/0.3):0;
+          if(g.userData.muzzle){ const on=k>0.18&&k<0.36; g.userData.muzzle.visible=on; g.userData.muzzle.material.rotation=t/30; g.userData.muzzle.scale.setScalar(0.28+0.25*Math.sin(Math.PI*Math.min(1,Math.max(0,(k-0.18)/0.18)))); if(on){ const wp=new T3.Vector3(); g.userData.muzzle.getWorldPosition(wp); muzzleLight.position.copy(wp); muzzleLight.color.set(g.userData.muzzle.material.color); muzzleLight.intensity=2.4*(1-(k-0.18)/0.18); } } break; }
+        case 'slam': { dirTo(a.tx,a.ty); const up=k<0.3?k/0.3:1, down=k<0.3?0:Math.min(1,(k-0.3)/0.18); const arm=-2.5*up+2.1*down; P.armR.rotation.x=arm; P.armL.rotation.x=arm; P.armL.rotation.z=0.25; P.armR.rotation.z=-0.25; body.rotation.x=-0.25*up+0.75*down; bobY-=0.22*down; P.kneeL.rotation.x+=0.9*down; P.kneeR.rotation.x+=0.9*down; P.legL.rotation.x-=0.5*down; P.legR.rotation.x-=0.5*down;
+          if(g.userData.muzzle){ g.userData.muzzle.visible=false; } if(down>0.9&&k<0.6&&g.userData.body){ const wp=new T3.Vector3(); g.userData.body.getWorldPosition(wp); muzzleLight.position.copy(wp).setY(0.3); muzzleLight.color.set('#FFA35C'); muzzleLight.intensity=2.0*(1-(k-0.48)/0.12); } break; }
         case 'lunge': { dirTo(a.tx,a.ty); const e=Math.sin(Math.PI*Math.min(1,k)); body.position.z=0.5*e; body.rotation.x=0.35*e; P.armR.rotation.x=-2.2*e; P.armL.rotation.x=-1.0*e; P.kneeL.rotation.x=0.6*e; break; }
         case 'hit': { const e=Math.sin(Math.PI*k); body.rotation.x=-0.45*e; body.position.z=0.08*e; for(const m of g.userData.mats){ m.emissive.setRGB(0.9*(1-k),0.1*(1-k),0.1*(1-k)); m.emissiveIntensity=1; } break; }
         case 'dodge': { const e=Math.sin(Math.PI*k); body.rotation.z=0.3*e; bobY-=0.08*e; P.kneeL.rotation.x=0.5*e; P.kneeR.rotation.x=0.5*e; break; }
@@ -2657,7 +2687,7 @@ const R3 = (()=>{
       if(g.userData.ring&&!u.downed){ g.userData.ring.rotation.z=(u.side==='player'?1:-1)*t/2600; }
       // facing
       const dx=target.x-g.position.x, dz=target.z-g.position.z; let face=null; if(Math.hypot(dx,dz)>0.02) face=Math.atan2(dx,dz); else { const f=(G.pov&&G.pov.unit===u&&G.povView==='pov'&&G.pov.target&&G.pov.target.alive)?G.pov.target:nearestFoe(u); if(f) face=Math.atan2((f.x-u.x),(f.y-u.y)); }
-      if(face!==null&&u.side!=='obj'&&!(u.anim&&(u.anim.k==='fire'||u.anim.k==='lunge'||u.anim.k==='cast'))){ const cur=g.userData.body.rotation.y; let d=face-cur; while(d>Math.PI) d-=2*Math.PI; while(d<-Math.PI) d+=2*Math.PI; g.userData.body.rotation.y=cur+d*0.2; }
+      if(face!==null&&u.side!=='obj'&&!(u.anim&&(u.anim.k==='fire'||u.anim.k==='cast1'||u.anim.k==='slam'||u.anim.k==='lunge'||u.anim.k==='cast'))){ const cur=g.userData.body.rotation.y; let d=face-cur; while(d>Math.PI) d-=2*Math.PI; while(d<-Math.PI) d+=2*Math.PI; g.userData.body.rotation.y=cur+d*0.2; }
       if(u.side!=='obj') pose(u,g,t,Math.hypot(dx,dz)>0.02);
       if(g.userData.spin) g.userData.spin.rotation.z=t/500; if(g.userData.pulse&&g.userData.pulse.material.emissive) g.userData.pulse.material.emissiveIntensity=1.2+0.7*Math.sin(t/300);
       if(u.side==='enemy'&&!u.alert){ g.traverse(o=>{ if(o.isMesh&&o.material.transparent!==true&&!o.userData.dimmed){ o.userData.dimmed=true; o.material=o.material.clone(); o.material.transparent=true; o.material.opacity=0.45; } }); }
@@ -2794,7 +2824,7 @@ async function performAt(p,opts={}){
   if(G.mode==='concuss'){ if(!hostile||target.side!=='enemy'||!inRange(Object.assign({},u,{range:6}),target)){ setHint('<b>Concussion Round</b> needs a hostile in view within 6.'); return; }
     G.busy=true; renderSide(); VO.event(u,'concuss'); anim(u,'fire',{tx:target.x,ty:target.y}); Audio.shoot(u.x,'heavy'); fxTracer(u,target,'#FF7A45'); await wait(200); G.stats.shots++; G.stats.hits++;
     if(target.side==='enemy'&&!target.alert) await scamper(wakePod(target.pod));
-    log(`${u.name} puts a Concussion Round into ${target.name} — 4 dmg, thrown back.`,'hit'); applyDamage(target,4,u);
+    log(`${u.name} hits ${target.name} with a Concussive Burst — 4 dmg, thrown back.`,'hit'); applyDamage(target,4,u);
     if(target.alive){ target.ow=false; const dx=Math.sign(target.x-u.x), dy=Math.sign(target.y-u.y); const K=F(u,'concussKnock')||1; for(let i=0;i<K;i++){ const nx=target.x+dx, ny=target.y+dy; if(inb(nx,ny)&&!solid(nx,ny)&&!unitAt(nx,ny)){ target.x=nx; target.y=ny; } else break; } anim(target,'hit'); fxRing(target.x,target.y,'#FF7A45',0.8);
       if(F(u,'concussStun')){ target.stunned=true; fxText(target.x,target.y-0.6,'STUNNED','#FF7A45',true); log(`${target.name} is stunned — loses its next turn.`,'sys'); } }
     shake(10); await checkContact(); u.cd=u.def.ability.cd; if(!target.alive&&F(u,'concussMomentum')){ u.ap=1; fxText(u.x,u.y,'FOLLOW-THROUGH','#FF7A45'); log(`Follow-through — ${u.name} keeps an action.`,'good'); } else u.ap=0; await wait(350); G.busy=false; afterAction(u); return; }
@@ -3109,5 +3139,5 @@ function loop(){ if(R3){ R3.render(now()); } else draw(); requestAnimationFrame(
 /* ---------- Boot ---------- */
 function start(){ showScreen('menu'); loop(); }
 window.claude?.hot?.ready ? window.claude.hot.ready(start) : start();
-window.MUTIE={G,startMission,endTurn,hitChance,coverAgainst,hasLOS,reachable,ARCH,ENEMY,MISSIONS,select,setMode,jammed,objectiveComplete,evacStatus,genMission,launchSide,CAMP:()=>CAMP,rosterEntry,KIT_UPGRADES,upgradesFor,buildDef,PERKS,ADAPT,adaptFor,adjustMission,checkPerkOffer,MX,R3,povGo,povCycle,toggleView,performAt,enterPOV,exposureAt,threatAfterMove,threatMoveAt,pathThreats,threatZone,DIFF,setDiff:(id)=>{ if(DIFF[id]){ CAMP.diff=id; saveCamp(); } },unlockAll:()=>{ for(const m of MUTANTS) if(!CAMP.roster.some(r=>r.cid===m.id)) CAMP.roster.push({cid:m.id,kit:m.id,name:m.name,level:1,xp:0,kills:0,missions:0,wounded:0,alive:true,upgrade:null,pendingUpgrade:false,custom:null}); saveCamp(); }};
+window.MUTIE={G,startMission,endTurn,hitChance,coverAgainst,hasLOS,reachable,ARCH,ENEMY,MISSIONS,select,setMode,jammed,objectiveComplete,evacStatus,genMission,launchSide,CAMP:()=>CAMP,rosterEntry,KIT_UPGRADES,upgradesFor,buildDef,PERKS,ADAPT,adaptFor,adjustMission,checkPerkOffer,MX,R3,povGo,povCycle,toggleView,performAt,enterPOV,exposureAt,threatAfterMove,threatMoveAt,pathThreats,threatZone,anim,fxTracer,DIFF,setDiff:(id)=>{ if(DIFF[id]){ CAMP.diff=id; saveCamp(); } },unlockAll:()=>{ for(const m of MUTANTS) if(!CAMP.roster.some(r=>r.cid===m.id)) CAMP.roster.push({cid:m.id,kit:m.id,name:m.name,level:1,xp:0,kills:0,missions:0,wounded:0,alive:true,upgrade:null,pendingUpgrade:false,custom:null}); saveCamp(); }};
 </script>

diff --git a/CLAUDE.md b/CLAUDE.md
@@ -36,7 +36,7 @@ well-placed teleport or a missed 80% shot can swing the whole fight.
 - **Pods.** Enemies spawn unaware in pods (clustered within 3 tiles at spawn). A pod wakes when a mutant is within
   7 tiles with line of sight, or fires on a member; it scampers to cover on waking. Hovering a move tile shows
   which unaware enemies it would wake. Reinforcements and summons arrive awake. The player paces the fight.
-- **Placeholder art until mechanics are fun.** Units are colored circles with a glyph on purpose.
+- **Placeholder art until mechanics are fun.** (Historical — the 3D figures shipped 2026-09-27; the 2D fallback still draws circles with a glyph.) Everything a mutant does on the board should read as a power, never as a gun.
 - **Guerrilla stance.** The squad is outgunned and picks its fights; missions are strikes, not sieges.
 
 ## Campaign layer (Phase 8 — built in-page)
@@ -339,6 +339,21 @@ specimen tanks, no motes) · transmitter (cable trays, lattice mast with beacons
   says what the shading is. Deliberately *not* Into-the-Breach intent: it shows where they can hurt you, not what they will do.
 - **Reinforcement edge.** With `reinforceAt−turn ≤ 2`, the right-edge arrival columns (`x ≥ COLS−3`, free floor) breathe red
   and the foot reads "Reinforcements in N · right edge". `test27–29.mjs` cover breakdown, heat map and zones.
+
+## Signature basic attacks (2026-09-27, Cameron's brief: no mutant fires a gun)
+`ATTACKS[family]` = `{name, kind, sfx, anim, color, desc}` — blaster **Pulse Shot** (bolt, `cast1`), bruiser **Shockwave** (wave
+along the floor, `slam`), phaser **Rift Shard** (jittering shard, `cast1`), mender **Suture Dart** (needle, `cast1`); `ATTACK_NAMES`
+gives each of the twelve a flavour name/colour (Heat Lance, Static Bolt, Shield Slam, Quake Fist, Void Spike, Echo Pulse, Ward
+Sting, Adrenal Dart…). `attackFor(kit)` merges them and `buildDef` sets `def.attack`; the Coalition has none and keeps its rifles.
+`shoot()` reads `a.def.attack` for the animation, `fxTracer(a,b,color,kind)` (bullet | bolt | wave | shard | needle — wave runs
+at floor height with a ring sprite and a launch ring at the attacker's feet) and `Audio.shoot(x,sfx)` (`pulse`/`slam`/`shard`/
+`needle` voices; enemy kinds unchanged). Figures: mutants get emitter rings and palm cores on both forearms in the attack colour
+plus a palm flash sprite as `userData.muzzle`; `makeGun` is enemy-only; mutant rest pose is hands-low, not low-ready. New poses in
+`pose()`: `cast1` (one-arm push, flash at k 0.18–0.36 with the muzzle light tinted to the attack) and `slam` (both fists up then
+down, body dips, warm ground light). Every "Fire" surface uses the attack name: action button (+ `desc`), `#pov-go`
+("Pulse Shot → Trooper · 70%"), hints, touch arm text; Overwatch copy says "Hold your shot". Text tidy: Ember is a "Kinetic
+striker", Concussion Round → **Concussive Burst** (same key `concuss`), Steady says "reaction shots". `og.png` regenerated without
+the rifle. `shotattack.mjs` freezes each family mid-attack (`MUTIE.anim`/`fxTracer` are exposed for it).
 
 ## Share card & head tags
 `og.png` (1200×630) is the Open Graph / Twitter image, referenced absolutely as `https://mutie.lol/og.png`; the head carries
